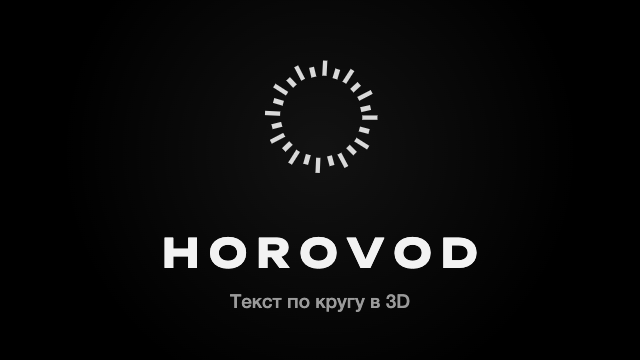
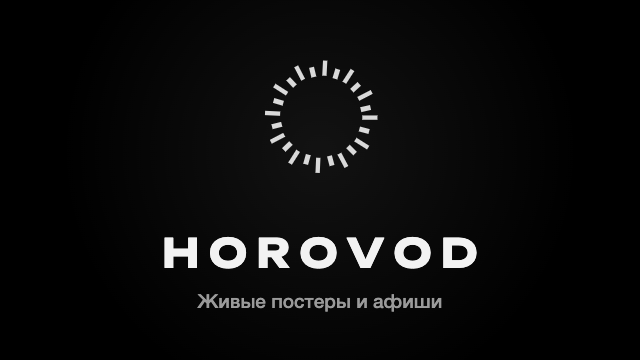
Приветствие бота: «Живые постеры и афиши» вместо «Текст по кругу в 3D»

Changed region(s): [[0.3125, 0.7944, 0.6875, 0.8861]]

diff --git a/bot/README.md b/bot/README.md
@@ -8,10 +8,10 @@
 
 | Где | Текст |
 |---|---|
-| Приветственный пост (`/start`) | **HOROVOD**<br>Редактор объёмной типографики прямо в Telegram.<br>• текст по кругу, квадрату и цилиндру в 3D<br>• свои шрифты, картинки, фигуры и музыка<br>• свет, эффекты, готовое видео или PNG<br>Нажмите «Начать», чтобы открыть редактор. |
+| Приветственный пост (`/start`) | **HOROVOD**<br>Живые постеры и афиши прямо в Telegram.<br>• объёмный текст по кругу, квадрату и цилиндру<br>• свои шрифты, картинки, фигуры и музыка<br>• свет, эффекты, готовое видео или PNG<br>Нажмите «Начать», чтобы открыть редактор. |
 | Кнопка под постом | Начать (открывает `https://sunpoul.github.io/HOROVOD/`) |
-| Описание на стартовом экране бота (до 512 знаков) | HOROVOD — редактор объёмной типографики. Пишите текст по кругу, квадрату или цилиндру в 3D, добавляйте свои шрифты, картинки, музыку и эффекты. Сохраняйте результат как PNG или видео. Всё работает прямо в Telegram. |
-| Строка «О боте» (до 120 знаков) | Текст по кругу в 3D: редактор типографики, видео и PNG прямо в Telegram |
+| Описание на стартовом экране бота (до 512 знаков) | HOROVOD — редактор живых постеров и афиш. Собирайте объёмную типографику: текст по кругу, квадрату или цилиндру, свои шрифты, картинки, фигуры, музыку и эффекты. Сохраняйте результат как видео или PNG. Всё работает прямо в Telegram. |
+| Строка «О боте» (до 120 знаков) | Живые постеры и афиши: объёмный текст, музыка и эффекты, видео и PNG прямо в Telegram |
 
 ## Картинки (`brand/telegram/`)
 
